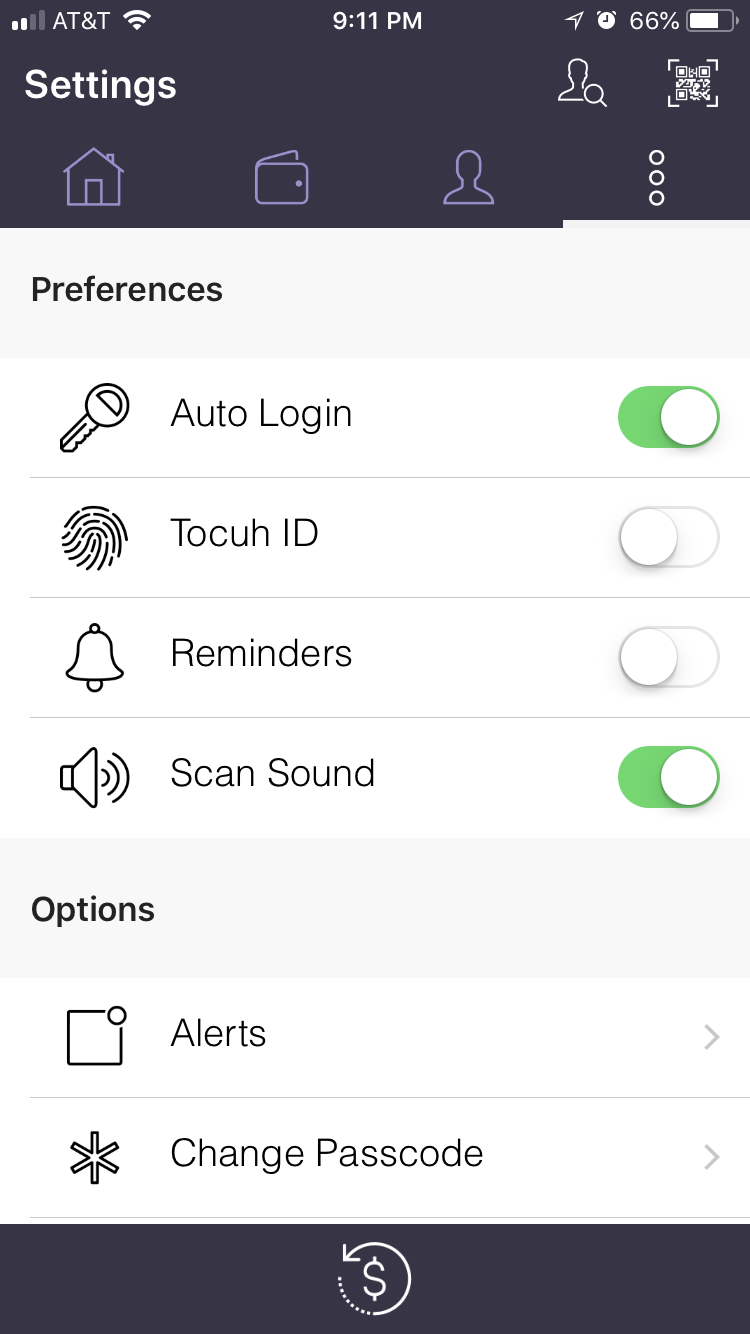
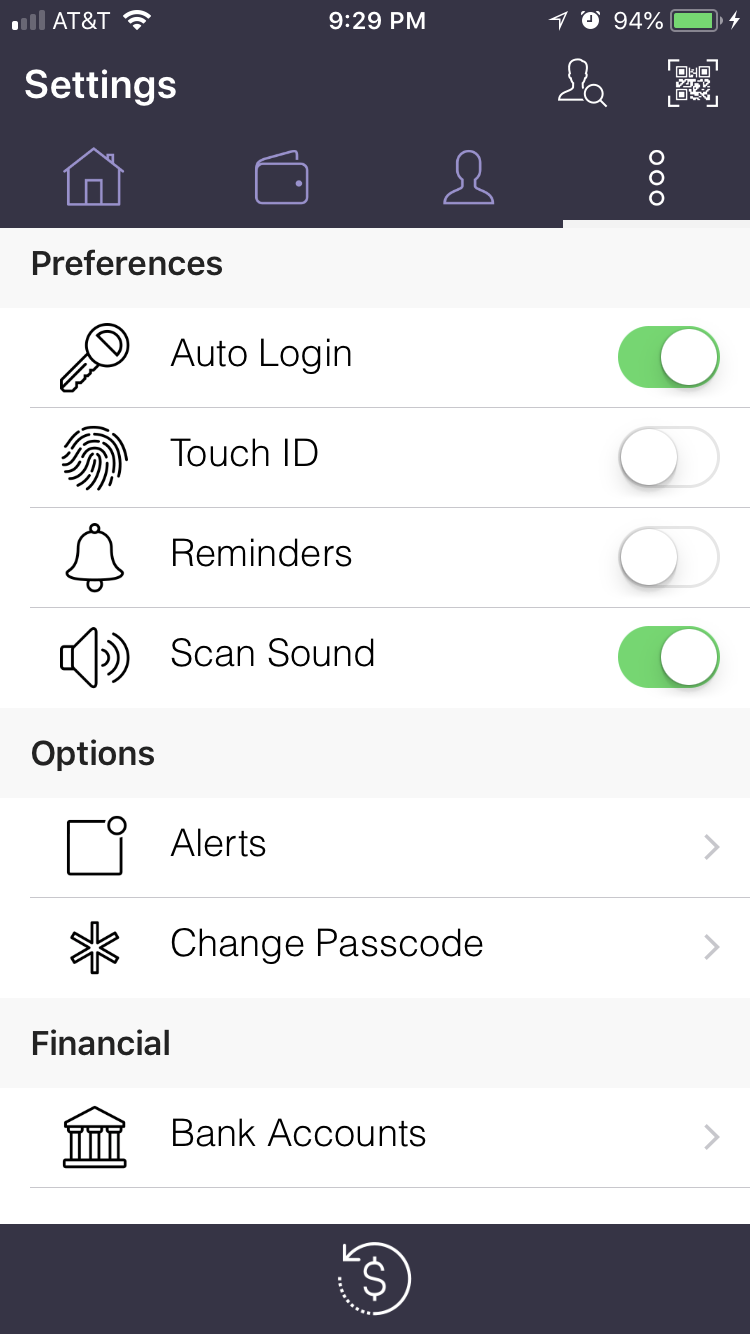
Fixes-UI

diff --git a/Dracker/Views/Settings.swift b/Dracker/Views/Settings.swift
@@ -11,7 +11,7 @@ class Settings: UIView {
     let sections = ["Preferences", "Options", "Financial"]
     let data = [[SettingData(title: "Auto Login", image: "authorization"), SettingData(title: "Touch ID", image: "fingerprint"), SettingData(title: "Reminders", image: "notification"), SettingData(title: "Scan Sound", image: "sound")],
                 [SettingData(title: "Alerts", image: "alerts"), SettingData(title: "Change Passcode", image: "passcode")],
-        [SettingData(title: "Change Bank Account", image: "bank")]
+        [SettingData(title: "Bank Accounts", image: "bank")]
     ]
     let defaults_key = ["auto_login", "touch", "reminder", "sound"]
     weak var parent: Home?
@@ -20,8 +20,8 @@ class Settings: UIView {
         table.tableFooterView = UIView()
         table.delegate = self
         table.dataSource = self
-        table.sectionHeaderHeight = 70.0
-        table.rowHeight = 60.0
+        table.sectionHeaderHeight = 45.0
+        table.rowHeight = 50.0
         return table
     }()
     
